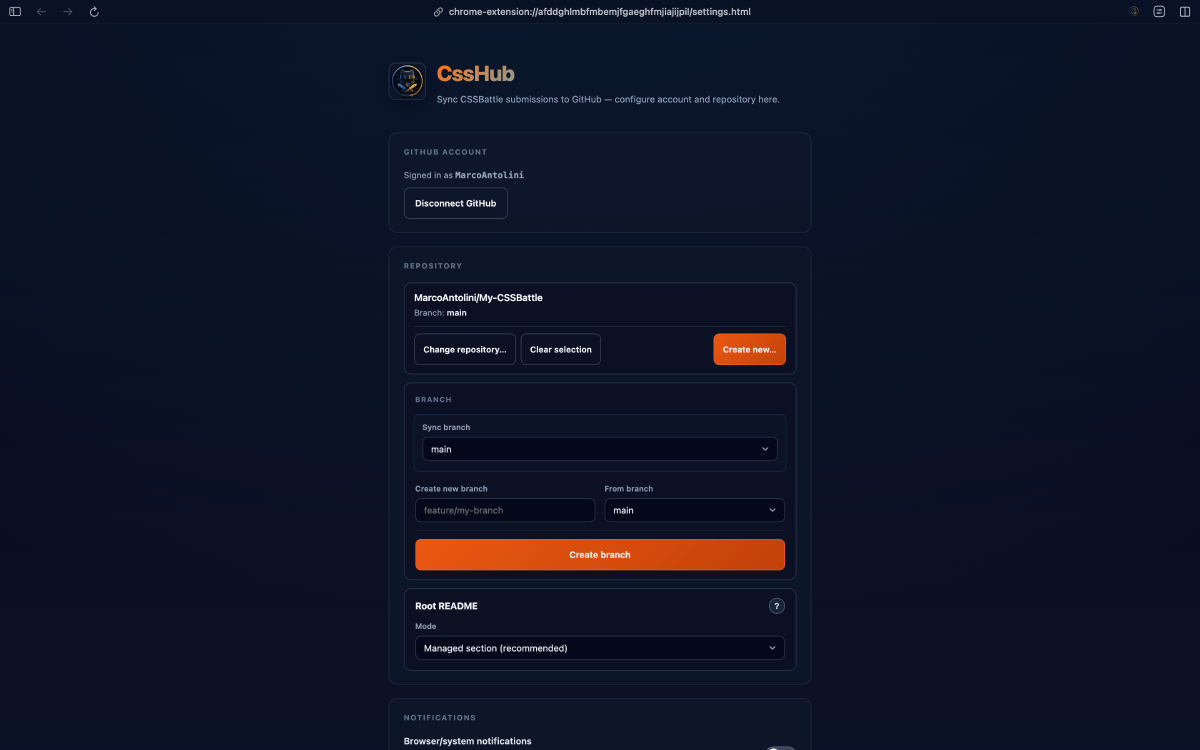
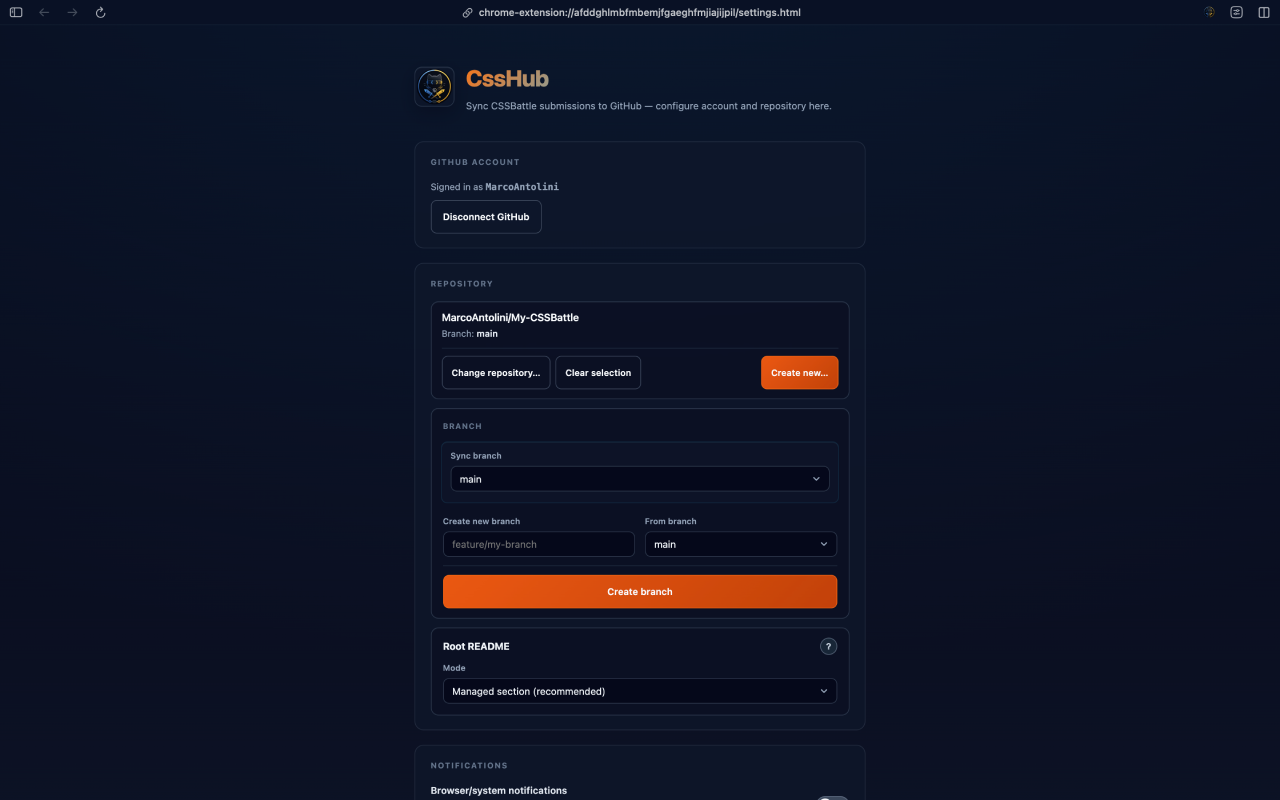
fix(extension): omit manifest.key for Chrome Web Store builds
Production Vite builds no longer inject EXTENSION_MANIFEST_KEY; the store
packaging script strips key if present. Document OAuth id flow for published
extensions and refresh store screenshots.

diff --git a/apps/extension/vite.config.ts b/apps/extension/vite.config.ts
@@ -99,7 +99,8 @@ const manifestHostPlugin = (
 export default defineConfig(({ mode }) => {
 	const env = loadEnv(mode, __dirname, "");
 	const backendBaseUrl = getBackendBaseUrl(mode, env);
-	const manifestKey = getManifestKey(env);
+	// Chrome Web Store rejects manifest.key; use EXTENSION_MANIFEST_KEY only for dev/staging/preview unpacked builds.
+	const manifestKey = mode === "production" ? null : getManifestKey(env);
 	return {
 		plugins: [react(), manifestHostPlugin(mode, backendBaseUrl, manifestKey)],
 		build: {

diff --git a/apps/extension/README.md b/apps/extension/README.md
@@ -28,7 +28,7 @@ Important variables:
 
 - `VITE_GITHUB_CLIENT_ID` — public OAuth App client id (device flow and authorize URL).
 - `VITE_OAUTH_BACKEND_BASE_URL` — CssHub Vercel backend used for **web** OAuth code exchange only (required for production builds; see [backend README](../backend/README.md)).
-- `EXTENSION_MANIFEST_KEY` — optional; stabilizes extension id for a fixed GitHub OAuth callback URL.
+- `EXTENSION_MANIFEST_KEY` — optional for **dev/staging/preview** builds only; stabilizes unpacked extension id for OAuth. **Omit for production** (Chrome Web Store rejects `manifest.key`; the store assigns your public extension id).
 
 After `npm run dev` or a production build, load the unpacked extension from **`dist/`** (not `public/`).
 
@@ -64,14 +64,13 @@ Clone the repo, then:
 
 Aliases: `npm run build:extension`, `npm run build:staging`, `npm run build:preview`, `npm run build:dev`.
 
-## Web OAuth callback URL (stable extension id)
+## Web OAuth callback URL (extension id)
 
-GitHub OAuth Apps allow **one** authorization callback URL per app, so the extension id should stay stable for browser sign-in.
+GitHub OAuth Apps allow **one** authorization callback URL per app.
 
-1. Set `EXTENSION_MANIFEST_KEY` in the appropriate `apps/extension/.env.*.local` file.
-2. Build so the key is written into `dist/manifest.json`.
-3. In CssHub settings, confirm the redirect URL from `chrome.identity.getRedirectURL("github")`.
-4. Register that exact URL on your GitHub OAuth App as the **Authorization callback URL**.
+**Local / staging unpacked builds:** set `EXTENSION_MANIFEST_KEY` in `.env.development.local` (or staging/preview), build, load unpacked, then register `chrome.identity.getRedirectURL("github")` on your GitHub OAuth App.
+
+**Chrome Web Store:** do **not** set `EXTENSION_MANIFEST_KEY` in `.env.production.local`. Production builds omit `manifest.key`. After the store publishes the extension, copy its id from `chrome://extensions` and add it to backend `ALLOWED_EXTENSION_IDS`, then register that build’s OAuth redirect URL on GitHub.
 
 ## CI and release builds
 

diff --git a/docs/ops-runbook.md b/docs/ops-runbook.md
@@ -13,7 +13,7 @@ Work through in order:
 ### 1. Extension build and identity
 
 - Confirm **production** build (`npm run build:extension:prod` or CI `extension-dist-production`) with correct `VITE_OAUTH_BACKEND_BASE_URL` (no `localhost` in `dist/manifest.json` host permissions).
-- **Stable extension id:** `EXTENSION_MANIFEST_KEY` set → production build → note id in `chrome://extensions` → must appear in backend `ALLOWED_EXTENSION_IDS`.
+- **Extension id:** Production store builds must **not** include `manifest.key`. After publish, use the **Chrome Web Store** extension id in `ALLOWED_EXTENSION_IDS` (not a dev `EXTENSION_MANIFEST_KEY` id). For local unpacked testing only, use `EXTENSION_MANIFEST_KEY` in dev/staging env files.
 - **GitHub OAuth App:** Authorization callback URL must match `chrome.identity.getRedirectURL("github")` from that build (single callback per OAuth app).
 
 ### 2. OAuth backend health
